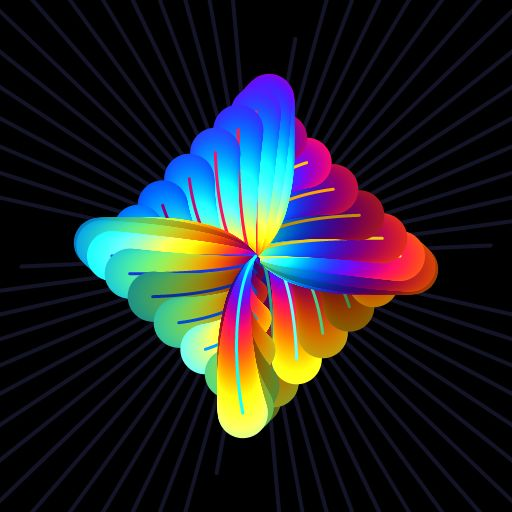
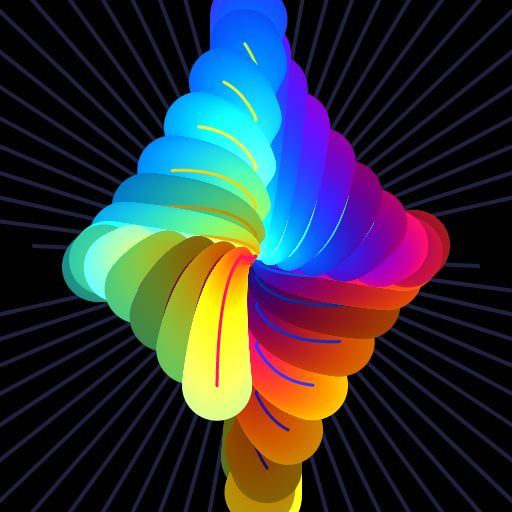
sketch-gallery publish command

diff --git a/sketches/background-pattern/background-pattern-v4-radial-purple/index.js b/sketches/background-pattern/background-pattern-v4-radial-purple/index.js
@@ -72,13 +72,14 @@ sketch.setup();
 
 const drawRadialPattern = (count = 7, time, _color) => {
   noFill();
+  strokeWeight(2);
 
   const center = createVector( 0, 0 );
-  const size = (width + height)/6;
-  const p = 0.01
+  const size = (width + height)/4;
+  const p = 0.05
   const hueSpeed = time;
 
-  iterators.angle(0, TAU, TAU / 50, angle => {
+  iterators.angle(0, TAU, TAU / count, angle => {
     const edge = converters.polar.vector(
       angle,
       size,
@@ -101,30 +102,15 @@ const drawRadialPattern = (count = 7, time, _color) => {
     iterators.vector(edge, center, p, (vector, lerpIndex) => {
       stroke( color(
         map(sin(hueSpeed+angle+lerpIndex*5), -1, 1, 0, 360) / opacityFactor,
-        map(cos(hueSpeed-angle+lerpIndex*5), -1, 1, 0, 360) / opacityFactor,
-        map(sin(hueSpeed+angle+lerpIndex*5), -1, 1, 360, 0) / opacityFactor
+        128 / opacityFactor,
+        360 / opacityFactor
       ) );
 
-      const cX = map(sin(time), -1, 1, 1, 3);
-      const cY = map(cos(time/2), -1, 1, 1, 3);
-
-      let pos = createVector(
-        vector.x * abs(sin(time+cX + angle + lerpIndex)),
-        // vector.y * tan(sin(time + angle + lerpIndex)),
-        vector.y * (cos(time-cY + angle + lerpIndex)),
+      const pos = createVector(
+        vector.x * (sin(time*2 + angle + lerpIndex) + 1.5),
+        vector.y * (cos(time - angle+ lerpIndex) + 1.5),
       );
 
-      // pos = createVector(
-      //   vector.x,// * (sin(time*2 + angle + lerpIndex) + 1.5),
-      //   vector.y// * (cos(time - angle+ lerpIndex) + 1.5),
-      // );
-
-
-      strokeWeight(map(lerpIndex, 0, 1, 30, -30));
-      // strokeWeight(abs(map(sin(2*time+angle), -1, 1, 30, -30)));
-      point( pos.x, pos.y );
-
-      strokeWeight(3)
       vertex( pos.x, pos.y );
 
     })
@@ -139,7 +125,7 @@ const drawRadialPattern2 = (count = 7, time, _color) => {
   strokeWeight(options.get("background-lines-weight"));
 
   const center = createVector( 0, 0 );
-  const size = (width + height)/6;
+  const size = (width + height)/12;
 
   const p = options.get("background-lines-precision")
   const hueSpeed = time;
@@ -191,7 +177,7 @@ sketch.draw((time) => {
   background(0);
 
   translate(width / 2, height / 2);
-  // rotate(-time/4)
+  rotate(-time/4)
   drawRadialPattern(
     100,
     time

diff --git a/sketches/background-pattern/background-pattern-v8-/index.js b/sketches/background-pattern/background-pattern-v8-/index.js
@@ -119,10 +119,12 @@ const drawRadialPattern = (count = 7, time) => {
     beginShape();
 
     iterators.vector(edge, center, p, (vector, lerpIndex) => {
+      const hueIndex = angle+lerpIndex * map(sin(time), -1, 1, -5, 5);
+
       stroke( color(
-        map(sin(hueSpeed+angle+lerpIndex*5), -1, 1, 0, 360) / opacityFactor,
-        map(cos(hueSpeed+angle+lerpIndex*5), -1, 1, 0, 360) / opacityFactor,
-        map(sin(hueSpeed+angle+lerpIndex*5), -1, 1, 360, 0) / opacityFactor
+        map(sin(hueSpeed+hueIndex), -1, 1, 0, 360) / opacityFactor,
+        map(cos(hueSpeed+hueIndex), -1, 1, 0, 360) / opacityFactor,
+        map(sin(hueSpeed+hueIndex), -1, 1, 360, 0) / opacityFactor
       ) );
 
       const cX = map(sin(time), -1, 1, 1, 3);
@@ -138,6 +140,11 @@ const drawRadialPattern = (count = 7, time) => {
         vector.y * abs(cos(time + angle + lerpIndex)),
       );
 
+      pos = createVector(
+        vector.x * abs((sin(time - angle + lerpIndex))),
+        vector.y * abs(tan(cos(time - angle + lerpIndex))),
+      );
+
       // pos = createVector(
       //   vector.y * tan(sin(time + angle + lerpIndex)),
       //   vector.y * tan(cos(time + angle + lerpIndex)),
@@ -149,11 +156,15 @@ const drawRadialPattern = (count = 7, time) => {
       // );
 
 
-      strokeWeight(map(lerpIndex, 0, 1, 50, 0));
+      strokeWeight(map(lerpIndex, 0, 1, 70, 0));
+      // strokeWeight(map(lerpIndex, 0, 0.5, 70, 0));
+      // strokeWeight(map(lerpIndex, 0, map(sin(-time+angle+lerpIndex ), -1, 1, 0.1, 0.5), 70, 0));
+      // strokeWeight(map(lerpIndex, 0, 1, 70, 0));
       // strokeWeight(abs(map(sin(2*time+angle), -1, 1, 30, -30)));
       point( pos.x, pos.y );
 
       strokeWeight(3)
+      // stroke(128, 128, 255, 128)
       vertex( pos.x, pos.y );
 
     })
@@ -167,8 +178,8 @@ sketch.draw((time) => {
 
   pattern(
     options.get("background-lines-count"),
-    time/4,
-    color( 128, 128, 255, 40)
+    -time/4,
+    color( 128, 128, 255, 64)
   );
 
   translate(width / 2, height / 2);
